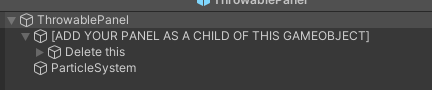
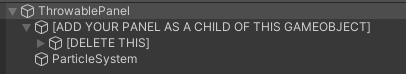
Updated README image

Changed region(s): [[0.0, 0.0, 1.0, 0.8919]]

diff --git a/README.md b/README.md
@@ -34,10 +34,10 @@ In the folder `Assets/Myorp/PortablePanel`, you'll find two prefabs :
 - `ThrowablePanel` is a version that uses a VRCPickup component, it can be thrown and dissintegrates when the panel gets too far away.
 
 1) Open the prefab of your choice, you can also duplicate the prefab if you do not want to override the one present in the folder
-2) The hierarchie looks like this 
+2) The hierarchie looks like this : <br>
 ![Showcase](https://github.com/MyroG/Portable-Panel/blob/main/Res/PanelHierarchy.PNG)
 3) Add your panel as a child of the GameObject `[ADD YOUR PANEL AS A CHILD OF THIS GAMEOBJECT]`, place it in a way so it matches the placeholder panel (which is named `[DELETE THIS]`)
-4) You can delete the `[DELETE THIS]` GameObject (You can also just hide the GameObject if you do not want to delete it)
+4) You can now delete the `[DELETE THIS]` GameObject (You can also just hide the GameObject if you do not want to delete it).
 5) If you're using the ThrowablePanel prefab, and your panel already has a VRCPickup component, remove that component, the `[ADD YOUR PANEL AS A CHILD OF THIS GAMEOBJECT]` GameObject already has the VRCPickup component.
 
 ### More difficult/Manual installation
